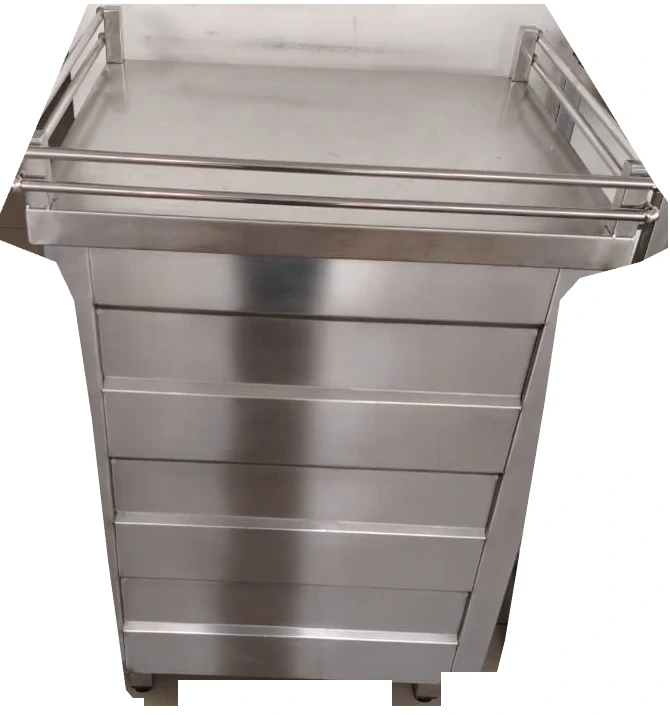
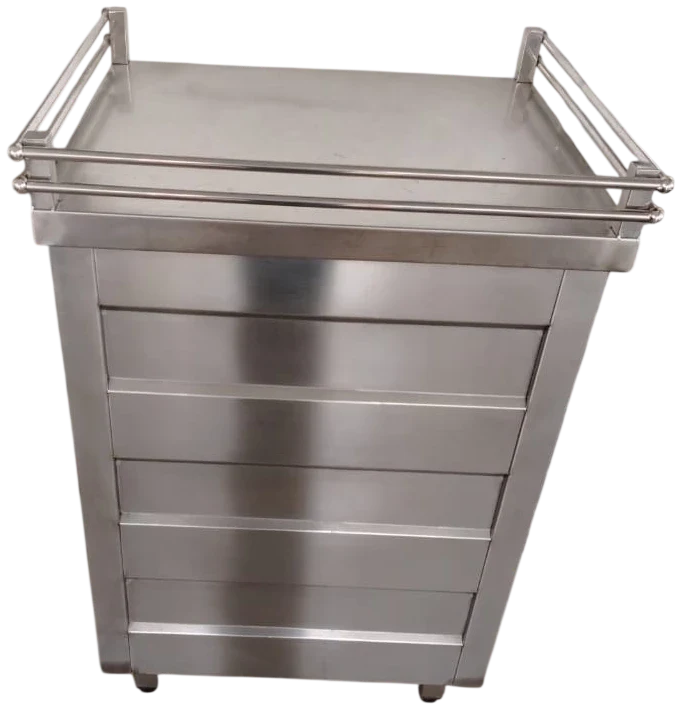
Add two products, fifteen item codes and a proper cut-out
Two new products: the Glass Display Showcase and the Nine-Pan
Gastronorm Trolley, taking the catalogue to 41.

The BM codes settled a question the photographs could not. The servery
counter's wells are heated, so it is renamed Bain Marie Servery Counter
and says so in the title, the description and the specs, where before
it deliberately claimed neither heated nor chilled. A second front-on
photograph shows the eight-pan build.

Multi-code products now spell every code out rather than compressing to
a range. BM-5 to BM-8 and SH-1200 to SH-2440 each get a row per code
against the size it denotes; the badge still shows the span, because
four full codes will not fit on a grid card.

Two chillers became cabinets. URC/URF/URCOM and UCC/UCF/UCCOM read as
chiller, freezer and one-of-each builds of the same shell, and a card
titled Chiller cannot carry a freezer code. Those readings are inferred
from the code stems and are flagged in the source.

The rice steamer's RI codes are listed but not interpreted. On the BM
counter the trailing number is a pan count and here it is probably a
tray count, but that is a guess, so the rows are not split per size.

The service counter's hand-masked image is replaced by the cut-out
supplied afterwards - full rail, intact feet, real transparency instead
of traced polygon edges.

Changed region(s): [[0.0, 0.0, 1.0, 0.9915]]

diff --git a/index.html b/index.html
@@ -2650,18 +2650,23 @@ body.modal-open{overflow:hidden;}
       </article>
 
       <!-- ------------------------------------------------------------------
-           Three-door under-counter chiller. Sibling of the UCC-1500, which
+           Three-door under-counter cabinet. Sibling of the UCC-1500, which
            was renamed to "Two-Door" when this arrived so the pair reads by
            door count rather than one being the generic.
+           One counter, three builds: UCC chiller, UCF freezer, UCCOM one of
+           each - the same C/F/COM split the upright cabinet uses. Renamed
+           from "Chiller" to "Cabinet" for the same reason it was there.
+           The UCC-1500 still carries only its chiller code; if it is built
+           the same three ways it wants UCF and UCCOM codes too.
            PREFIX MISMATCH: this is LK-TE-UCC-1800 while the other is
            LK-TH-UCC-1500. Same family, different prefix, and LK-TE is what
            every other code in the catalogue uses - worth confirming which
            is right.
            Holding copy as with the rest.
            ------------------------------------------------------------------ -->
-      <article class="product-card reveal" data-sku="LK-TE-UCC-1800" data-lead="Available on request" data-specs="Configuration::Three-door refrigerated counter|Controls::Digital thermostat on the front panel|Top::Stainless worktop, usable as bench space|Condenser::End mounted behind a ventilated grille|Mobility::Castor mounted|Suits::Cold storage under longer prep and service runs" data-category="refrigeration" data-images="assets/products/lk-chiller-undercounter-3door-1.webp::Layaan three-door stainless steel under-counter refrigerated counter with a digital thermostat, condenser grille and castors">
+      <article class="product-card reveal" data-sku="LK-TE-UCC-1800, LK-TE-UCF-1800, LK-TE-UCCOM-1800" data-lead="Available on request" data-specs="Configuration::Three-door refrigerated counter|LK-TE-UCC-1800::Chiller throughout|LK-TE-UCF-1800::Freezer throughout|LK-TE-UCCOM-1800::Chilled and frozen in one counter|Controls::Digital thermostat on the front panel|Top::Stainless worktop, usable as bench space|Condenser::End mounted behind a ventilated grille|Mobility::Castor mounted|Suits::Cold storage under longer prep and service runs" data-category="refrigeration" data-images="assets/products/lk-chiller-undercounter-3door-1.webp::Layaan three-door stainless steel under-counter refrigerated counter with a digital thermostat, condenser grille and castors">
         <div class="p-media p-media--photo">
-          <span class="p-badge">LK-TE-UCC-1800</span>
+          <span class="p-badge">LK-TE-UCC / UCF / UCCOM</span>
           <div class="p-media-inner">
             <img src="assets/products/lk-chiller-undercounter-3door-1.webp" width="447" height="301" loading="lazy" decoding="async"
                  alt="Layaan three-door stainless steel under-counter refrigerated counter with a digital thermostat, condenser grille and castors">
@@ -2669,8 +2674,8 @@ body.modal-open{overflow:hidden;}
         </div>
         <div class="p-body">
           <span class="p-cat">Refrigeration</span>
-          <h3><button type="button" class="p-open">Three-Door Under-Counter Chiller</button></h3>
-          <p>The longer counter in the same range &mdash; three doors instead of two, on castors, with a stainless top that works as bench space.</p>
+          <h3><button type="button" class="p-open">Three-Door Under-Counter Cabinet</button></h3>
+          <p>The longer counter in the same range &mdash; three doors instead of two, built as a chiller, as a freezer, or as one of each under a single stainless top.</p>
           <div class="p-foot">
             <span class="p-price">Price on request<small>contact us for a quotation</small></span>
             <span class="p-view" aria-hidden="true">View details <span>&rarr;</span></span>
@@ -2679,17 +2684,22 @@ body.modal-open{overflow:hidden;}
       </article>
 
       <!-- ------------------------------------------------------------------
-           Two-door upright chiller. Third product in Refrigeration and the
+           Two-door upright cabinet. Third product in Refrigeration and the
            first upright - the two UCC counters are under-bench, this one
            stands full height, so the copy leads on footprint.
+           One cabinet, three builds: URC chiller, URF freezer, URCOM one of
+           each. Those readings are inferred from the code stems and want
+           confirming; renamed from "Chiller" to "Cabinet" because a card
+           titled chiller cannot carry a freezer code.
+           Note URF-2d carries a lowercase d where the other two end in -2.
            The unit carries a manufacturer badge in the photograph, as the
            UCC-1500 does. Fine for a resold appliance, but worth knowing if
            unbranded shots are preferred.
            Holding copy as with the rest.
            ------------------------------------------------------------------ -->
-      <article class="product-card reveal" data-sku="LK-TE-URC-2" data-lead="Available on request" data-specs="Configuration::Upright cabinet with two half-doors|Controls::Digital display on the condenser deck|Condenser::Top mounted, above the doors|Mobility::Castor mounted|Body::Stainless steel throughout|Suits::Bulk cold storage where floor space is tight" data-category="refrigeration" data-images="assets/products/lk-chiller-upright-2door-1.webp::Layaan two-door upright stainless steel refrigerated cabinet with a top-mounted condenser deck, digital display and castors">
+      <article class="product-card reveal" data-sku="LK-TE-URC-2, LK-TE-URF-2d, LK-TE-URCOM-2" data-lead="Available on request" data-specs="Configuration::Upright cabinet with two half-doors|LK-TE-URC-2::Chiller throughout|LK-TE-URF-2d::Freezer throughout|LK-TE-URCOM-2::One chilled half, one frozen|Controls::Digital display on the condenser deck|Condenser::Top mounted, above the doors|Mobility::Castor mounted|Body::Stainless steel throughout|Suits::Bulk cold storage where floor space is tight" data-category="refrigeration" data-images="assets/products/lk-chiller-upright-2door-1.webp::Layaan two-door upright stainless steel refrigerated cabinet with a top-mounted condenser deck, digital display and castors">
         <div class="p-media p-media--photo">
-          <span class="p-badge">LK-TE-URC-2</span>
+          <span class="p-badge">LK-TE-URC / URF / URCOM</span>
           <div class="p-media-inner">
             <img src="assets/products/lk-chiller-upright-2door-1.webp" width="393" height="869" loading="lazy" decoding="async"
                  alt="Layaan two-door upright stainless steel refrigerated cabinet with a top-mounted condenser deck, digital display and castors">
@@ -2697,8 +2707,8 @@ body.modal-open{overflow:hidden;}
         </div>
         <div class="p-body">
           <span class="p-cat">Refrigeration</span>
-          <h3><button type="button" class="p-open">Two-Door Upright Chiller</button></h3>
-          <p>A full-height reach-in on castors with two half-doors and the condenser up top &mdash; bulk cold storage in a single cabinet footprint.</p>
+          <h3><button type="button" class="p-open">Two-Door Upright Cabinet</button></h3>
+          <p>A full-height reach-in on castors with two half-doors and the condenser up top &mdash; built as a chiller, as a freezer, or as one of each in the same cabinet.</p>
           <div class="p-foot">
             <span class="p-price">Price on request<small>contact us for a quotation</small></span>
             <span class="p-view" aria-hidden="true">View details <span>&rarr;</span></span>
@@ -2710,13 +2720,17 @@ body.modal-open{overflow:hidden;}
            Gas rice steamer. Filed under Cooking Machines rather than Cooking
            Ranges: it is a powered cabinet appliance like the drum wok cooker,
            not an open-burner range.
-           The photograph shows the outside only, so tray capacity - the spec
-           a steamer is actually bought on - is deliberately absent.
+           Four builds, RI-6 through RI-12. The codes are listed as supplied
+           and not interpreted: on the BM counter the trailing number is a
+           pan count, and here it is very likely a tray count - the spec a
+           steamer is bought on - but that is unconfirmed, so the rows are
+           not split out per size the way BM and SH are.
            Image is 196x337, small for the quick view.
-           Code to follow. Holding copy as with the rest.
+           Holding copy as with the rest.
            ------------------------------------------------------------------ -->
-      <article class="product-card reveal" data-lead="Available on request" data-specs="Configuration::Upright steaming cabinet, single hinged door|Heating::Gas burner housed in the base|Controls::Valve and gauge on the burner compartment|Door::Insulated, full height with a lever handle|Mobility::Castor mounted|Suits::Bulk rice, dim sum and steamed dishes" data-category="machines" data-images="assets/products/lk-steamer-rice-1.webp::Layaan gas rice steamer cabinet in stainless steel, with an insulated hinged door and a gas burner compartment in the base, on castors">
+      <article class="product-card reveal" data-sku="LK-TE-RI-6, LK-TE-RI-8, LK-TE-RI-10, LK-TE-RI-12" data-lead="Available on request" data-specs="Configuration::Upright steaming cabinet, single hinged door|Item codes::LK-TE-RI-6, LK-TE-RI-8, LK-TE-RI-10 and LK-TE-RI-12|Heating::Gas burner housed in the base|Controls::Valve and gauge on the burner compartment|Door::Insulated, full height with a lever handle|Mobility::Castor mounted|Suits::Bulk rice, dim sum and steamed dishes" data-category="machines" data-images="assets/products/lk-steamer-rice-1.webp::Layaan gas rice steamer cabinet in stainless steel, with an insulated hinged door and a gas burner compartment in the base, on castors">
         <div class="p-media p-media--photo">
+          <span class="p-badge">LK-TE-RI-6&ndash;12</span>
           <div class="p-media-inner">
             <img src="assets/products/lk-steamer-rice-1.webp" width="196" height="337" loading="lazy" decoding="async"
                  alt="Layaan gas rice steamer cabinet in stainless steel, with an insulated hinged door and a gas burner compartment in the base, on castors">
@@ -2783,16 +2797,20 @@ body.modal-open{overflow:hidden;}
       </article>
 
       <!-- ------------------------------------------------------------------
-           Servery counter with glass display. Distinct from the Eight-Pan
-           Servery Counter above, which is an open-topped trolley; this is a
-           fixed run with a glazed case and a tray slide.
-           As with that one, no controls are visible in the photograph, so
-           the copy does not claim the wells are heated or chilled. Confirm
-           and the spec can say so.
-           Code to follow. Holding copy as with the rest.
+           Bain marie servery counter. The BM codes settle what the first
+           photograph could not: the wells are heated. Renamed from "Servery
+           Counter with Glass Display" to say so, since bain marie is the
+           term a buyer searches for.
+           One product in four sizes - BM-5 to BM-8, read as pan counts, the
+           supplied front view showing the eight-pan build - so it carries a
+           code range rather than a single item code.
+           Still distinct from the Eight-Pan Servery Counter above, which is
+           an open-topped trolley with no glazed case.
+           Holding copy as with the rest.
            ------------------------------------------------------------------ -->
-      <article class="product-card reveal" data-lead="Available on request" data-specs="Configuration::Gastronorm wells set into a counter run|Display::Square glazed case over the wells|Tray slide::Tubular rail along the customer face|Base::Banded stainless panels|Body::Stainless steel throughout|Suits::Canteen, buffet and cafeteria service lines" data-category="display" data-images="assets/products/lk-servery-glass-1.webp::Layaan servery counter with gastronorm wells set into the top, a glazed display case above and a tray slide along the customer side">
+      <article class="product-card reveal" data-sku="LK-TE-BM-5, LK-TE-BM-6, LK-TE-BM-7, LK-TE-BM-8" data-lead="Available on request" data-specs="Configuration::Heated bain marie wells set into a counter run|LK-TE-BM-5::Five pans|LK-TE-BM-6::Six pans|LK-TE-BM-7::Seven pans|LK-TE-BM-8::Eight pans|Display::Square glazed case over the wells|Tray slide::Tubular rail along the customer face|Base::Banded stainless panels|Suits::Canteen, buffet and cafeteria service lines" data-category="display" data-images="assets/products/lk-servery-glass-1.webp::Layaan servery counter with gastronorm wells set into the top, a glazed display case above and a tray slide along the customer side|assets/products/lk-servery-glass-2.webp::Front view of the Layaan bain marie servery counter, showing eight gastronorm wells beneath the glazed case">
         <div class="p-media p-media--photo">
+          <span class="p-badge">LK-TE-BM-5&ndash;8</span>
           <div class="p-media-inner">
             <img src="assets/products/lk-servery-glass-1.webp" width="433" height="489" loading="lazy" decoding="async"
                  alt="Layaan servery counter with gastronorm wells set into the top, a glazed display case above and a tray slide along the customer side">
@@ -2800,8 +2818,8 @@ body.modal-open{overflow:hidden;}
         </div>
         <div class="p-body">
           <span class="p-cat">Display Counters</span>
-          <h3><button type="button" class="p-open">Servery Counter with Glass Display</button></h3>
-          <p>Gastronorm wells set into a long counter under a glazed case, with a tray slide running the length of the customer side.</p>
+          <h3><button type="button" class="p-open">Bain Marie Servery Counter</button></h3>
+          <p>Heated gastronorm wells set into a long counter under a glazed case, with a tray slide down the customer side &mdash; built five, six, seven or eight pans wide.</p>
           <div class="p-foot">
             <span class="p-price">Price on request<small>contact us for a quotation</small></span>
             <span class="p-view" aria-hidden="true">View details <span>&rarr;</span></span>
@@ -2836,20 +2854,17 @@ body.modal-open{overflow:hidden;}
       </article>
 
       <!-- ------------------------------------------------------------------
-           Service counter with gallery rail. IMAGE IS HAND MASKED: the
-           supplied photograph was a workshop shot - tiled floor, wall and a
-           neighbouring unit touching the right-hand rail. Tone-based
-           trimming could not separate it, so the silhouette was traced by
-           hand and everything outside filled white. Good at card size; the
-           polygon edges and the clipped feet show if you look closely, and
-           a proper cut-out would still be better.
+           Service counter with gallery rail. The first photograph was a
+           workshop shot that had to be hand masked; this is a proper cut-out
+           supplied later, which replaced it - full rail, intact feet, real
+           transparency.
            Product name is read off the photograph and wants confirming.
            Code to follow. Holding copy as with the rest.
            ------------------------------------------------------------------ -->
       <article class="product-card reveal" data-lead="Available on request" data-specs="Configuration::Clad counter with a galleried top|Rail::Tubular gallery on three sides|Front::Louvred stainless panels|Body::Welded stainless fabrication|Feet::Short adjustable feet|Suits::Service and dispense points where trays must not slide off" data-category="sinks" data-images="assets/products/lk-service-counter-1.webp::Layaan stainless steel service counter with a tubular gallery rail around three sides of the top and a louvred front">
         <div class="p-media p-media--photo">
           <div class="p-media-inner">
-            <img src="assets/products/lk-service-counter-1.webp" width="670" height="715" loading="lazy" decoding="async"
+            <img src="assets/products/lk-service-counter-1.webp" width="681" height="710" loading="lazy" decoding="async"
                  alt="Layaan stainless steel service counter with a tubular gallery rail around three sides of the top and a louvred front">
           </div>
         </div>
@@ -2857,6 +2872,64 @@ body.modal-open{overflow:hidden;}
           <span class="p-cat">Sinks &amp; Tabling</span>
           <h3><button type="button" class="p-open">Service Counter with Gallery Rail</button></h3>
           <p>A clad stainless counter with a tubular rail around three sides of the top, so nothing slides off the back or the ends.</p>
+          <div class="p-foot">
+            <span class="p-price">Price on request<small>contact us for a quotation</small></span>
+            <span class="p-view" aria-hidden="true">View details <span>&rarr;</span></span>
+          </div>
+        </div>
+      </article>
+
+      <!-- ------------------------------------------------------------------
+           Glass display showcase. One product in four lengths, so it carries
+           a code range rather than a single item code: the badge shows the
+           span and the SKU row lists all four.
+           Close cousin of the Glass Display Counter above, which has a black
+           banded base and comes in curved and upright formats. If they are
+           the same range, the two cards should be merged.
+           Holding copy as with the rest.
+           ------------------------------------------------------------------ -->
+      <article class="product-card reveal" data-sku="LK-TE-SH-1200, LK-TE-SH-1500, LK-TE-SH-1800, LK-TE-SH-2440" data-lead="Available on request" data-specs="Configuration::Glazed showcase over a stainless plinth|LK-TE-SH-1200::1200mm long|LK-TE-SH-1500::1500mm long|LK-TE-SH-1800::1800mm long|LK-TE-SH-2440::2440mm long|Shelving::Three tiers of glass shelves|Glazing::Square glass to the front, ends and top|Base::Plain stainless, castor mounted|Suits::Bakery, deli and front of house display" data-category="display" data-images="assets/products/lk-showcase-glass-1.webp::Layaan glass display showcase with three tiers of glass shelves over a stainless plinth, glazed on all sides and mounted on castors|assets/products/lk-showcase-glass-2.webp::The same showcase from the opposite side, showing the full length of the glazed case and the stainless base">
+        <div class="p-media p-media--photo">
+          <span class="p-badge">LK-TE-SH-1200&ndash;2440</span>
+          <div class="p-media-inner">
+            <img src="assets/products/lk-showcase-glass-1.webp" width="900" height="721" loading="lazy" decoding="async"
+                 alt="Layaan glass display showcase with three tiers of glass shelves over a stainless plinth, glazed on all sides and mounted on castors">
+          </div>
+        </div>
+        <div class="p-body">
+          <span class="p-cat">Display Counters</span>
+          <h3><button type="button" class="p-open">Glass Display Showcase</button></h3>
+          <p>Three tiers of glass shelving in a fully glazed case on a stainless plinth, built in four lengths from 1200 to 2440mm.</p>
+          <div class="p-foot">
+            <span class="p-price">Price on request<small>contact us for a quotation</small></span>
+            <span class="p-view" aria-hidden="true">View details <span>&rarr;</span></span>
+          </div>
+        </div>
+      </article>
+
+      <!-- ------------------------------------------------------------------
+           Nine-pan gastronorm trolley. The supplied photograph shows two
+           identical units side by side; cropped to the right-hand one so the
+           card reads as a single product.
+           No controls, element or lead are visible, so the copy does not
+           claim it is heated - unlike the bain marie counter, where the BM
+           codes settled it. If this is a heated trolley the spec should say
+           so, and it may belong to the same BM family.
+           Sits close to the Eight-Pan Servery Counter above: that one is an
+           open eight-pan top, this is nine lidded pans three by three.
+           Code to follow. Holding copy as with the rest.
+           ------------------------------------------------------------------ -->
+      <article class="product-card reveal" data-lead="Available on request" data-specs="Configuration::Nine gastronorm pans, three by three|Lids::One to each pan|Rail::Tubular push rail along the near edge|Under structure::Solid shelf over a slatted lower rack|Mobility::Castor mounted|Suits::Ward rounds, canteen and buffet service" data-category="display" data-images="assets/products/lk-bainmarie-trolley-1.webp::Layaan nine-pan gastronorm trolley with lidded pans in a three by three top, a push rail, a solid shelf and a slatted rack beneath, on castors">
+        <div class="p-media p-media--photo">
+          <div class="p-media-inner">
+            <img src="assets/products/lk-bainmarie-trolley-1.webp" width="604" height="767" loading="lazy" decoding="async"
+                 alt="Layaan nine-pan gastronorm trolley with lidded pans in a three by three top, a push rail, a solid shelf and a slatted rack beneath, on castors">
+          </div>
+        </div>
+        <div class="p-body">
+          <span class="p-cat">Display Counters</span>
+          <h3><button type="button" class="p-open">Nine-Pan Gastronorm Trolley</button></h3>
+          <p>Nine lidded pans in a three-by-three top, over a solid shelf and a slatted rack &mdash; wheeled to where the service happens.</p>
           <div class="p-foot">
             <span class="p-price">Price on request<small>contact us for a quotation</small></span>
             <span class="p-view" aria-hidden="true">View details <span>&rarr;</span></span>
